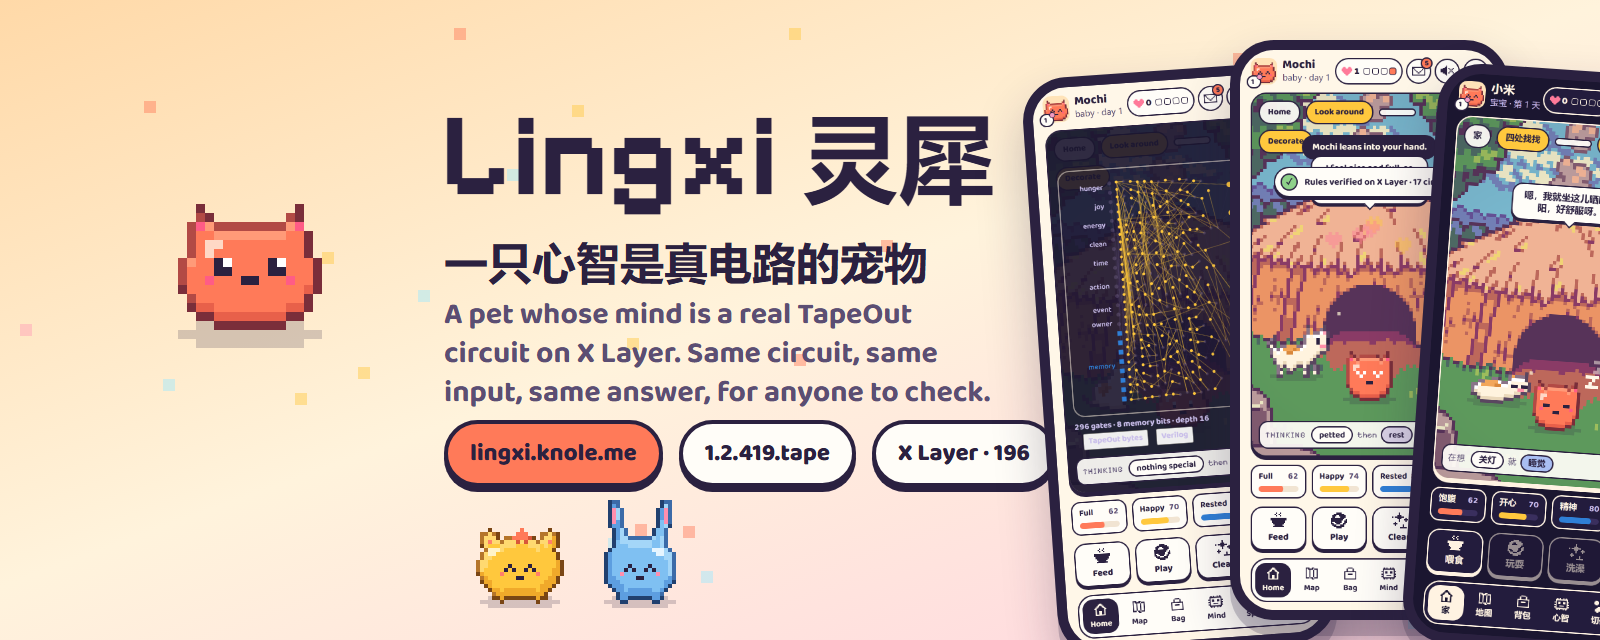
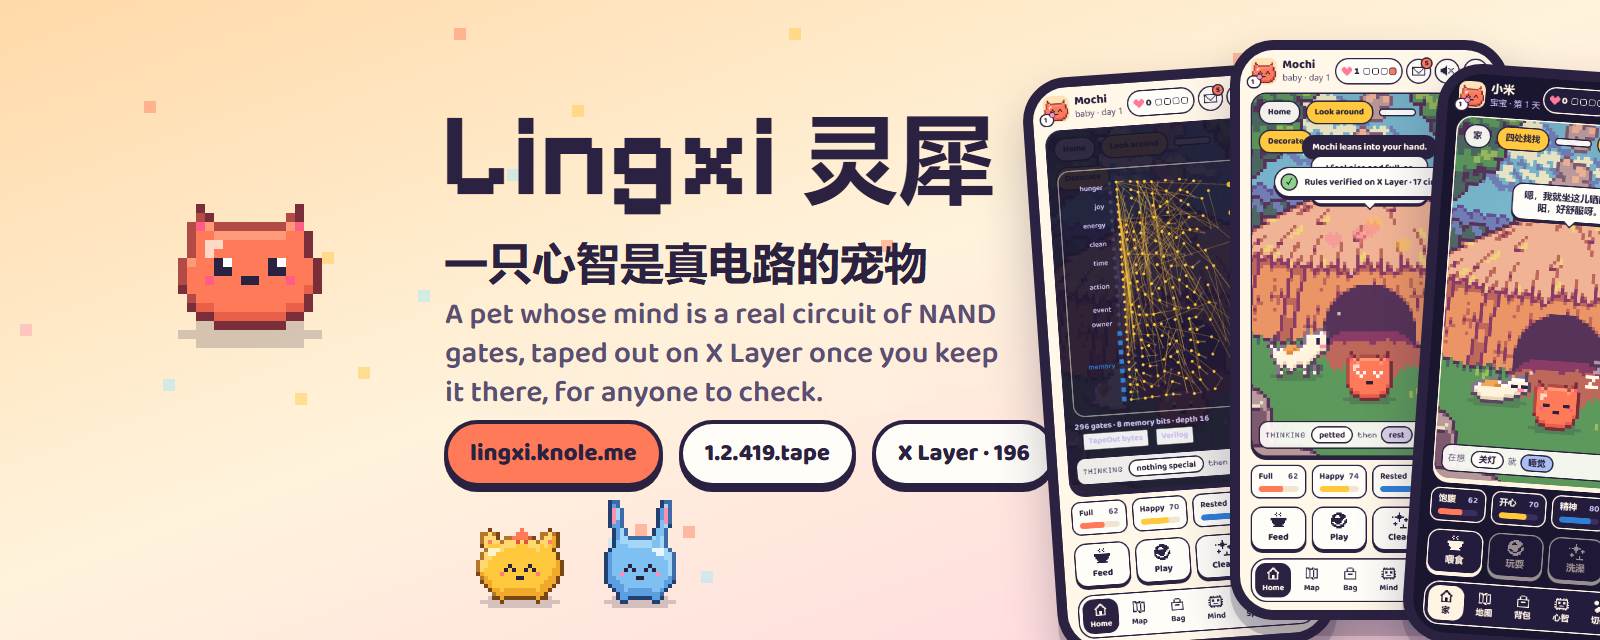
Say what holds in the opening sentence, wherever it is said
The landing's first line, five pages' descriptions, the web manifest, the
agent API and the README banner still said every pet's brain is a circuit on
X Layer. Each now says what is true: a pet's mind is a circuit of NAND gates,
taped out on X Layer once its owner keeps it there. The banner is rendered
from an HTML source with the banner's own art, so its words are text that a
test reads; that test checks every public place the opening is said.

Changed region(s): [[0.2812, 0.4688, 0.625, 0.625]]

diff --git a/apps/web/src/landing/opening.test.ts b/apps/web/src/landing/opening.test.ts
@@ -1,0 +1,34 @@
+/**
+ * A86: the opening sentence says what holds, wherever it is said. Every pet's mind is a circuit of NAND gates and
+ * latches; only once its owner keeps it on X Layer is that circuit taped out there (A43). The old sentence (every
+ * pet's brain is a circuit on X Layer) is read for in every public text that carries the opening: the pages' meta
+ * descriptions, the web manifest, the landing's first lines, the agent API's own description and the README banner's
+ * source.
+ */
+import { readFileSync } from "node:fs";
+import { join } from "node:path";
+import { describe, expect, it } from "vitest";
+import { COPY } from "./copy";
+
+const root = join(__dirname, "../../../..");
+const read = (path: string) => readFileSync(join(root, path), "utf8");
+const PUBLIC = ["apps/web/index.html", "apps/web/play.html", "apps/web/verify.html", "apps/web/handheld.html", "apps/web/agents.html", "apps/web/public/manifest.webmanifest", "services/api/src/agentApi.ts", "docs/readme/banner.html"];
+
+/** The old sentence, in the shapes it was written in: a pet's (every pet's) brain or mind as a circuit on X Layer. */
+const OLD = [/(brain|mind)s? (is|are) an? (real )?(TapeOut )?circuits? on X Layer/i, /minds are TapeOut circuits on X Layer/i, /its brain the circuit on X Layer/i, /its circuit brain on X Layer/i, /大脑为真实电路的宠物，电路就在 X Layer 上/];
+
+describe("the opening sentence (A86)", () => {
+  for (const path of PUBLIC)
+    it(`${path} does not say every pet's mind is a circuit on X Layer`, () => {
+      const text = read(path);
+      for (const old of OLD) expect(text, `${path}: ${old}`).not.toMatch(old);
+    });
+
+  it("the landing's first lines say what holds, in both languages", () => {
+    for (const old of OLD) expect(`${COPY.en.lede} ${COPY.zh.lede}`).not.toMatch(old);
+    expect(COPY.en.lede).toMatch(/NAND gates/);
+    expect(COPY.en.lede).toMatch(/keep it on X Layer/i);
+    expect(COPY.zh.lede).toMatch(/与非门/);
+    expect(COPY.zh.lede).toMatch(/留在 X Layer/);
+  });
+});

diff --git a/docs/readme/banner.html b/docs/readme/banner.html
@@ -1,0 +1,39 @@
+<!doctype html>
+<!--
+  The README banner (A86). Its art is `banner-base.png`: the banner first drawn on 2026-11-17, with its English lines
+  removed (filled smoothly from the area's own edges); the words are set here, in the game's own font, so they can be
+  read, checked and changed like any other text. Rendered to `banner.png` by `pnpm readme:banner`
+  (scripts/readme-banner.mts). The test `apps/web/src/landing/opening.test.ts` reads this file.
+-->
+<html lang="en">
+  <head>
+    <meta charset="utf-8" />
+    <style>
+      @font-face {
+        font-family: "Baloo 2 Variable";
+        src: url("../../apps/web/node_modules/@fontsource-variable/baloo-2/files/baloo-2-latin-wght-normal.woff2") format("woff2");
+        font-weight: 400 800;
+      }
+      html,
+      body {
+        margin: 0;
+        width: 1600px;
+        height: 640px;
+        overflow: hidden;
+        background: url("banner-base.png") no-repeat;
+      }
+      p {
+        position: absolute;
+        left: 445px;
+        top: 296px;
+        width: 560px;
+        margin: 0;
+        color: #5b4e73;
+        font: 600 30px/39px "Baloo 2 Variable", sans-serif;
+      }
+    </style>
+  </head>
+  <body>
+    <p>A pet whose mind is a real circuit of NAND gates, taped out on X Layer once you keep it there, for anyone to check.</p>
+  </body>
+</html>

diff --git a/apps/web/src/landing/copy.ts b/apps/web/src/landing/copy.ts
@@ -6,7 +6,7 @@ export const COPY = {
     cta: "Hatch an egg",
     quiet: "See how it thinks",
     h1: "Raise a little mind.",
-    lede: "Lingxi is a pet whose brain is a real circuit on X Layer. Care for it, teach it in your own words, and watch who it becomes.",
+    lede: "Lingxi is a pet whose brain is a real circuit of NAND gates. Keep it on X Layer and that circuit is taped out there. Care for it, teach it in your own words, and watch who it becomes.",
     hint: "Tap the pet. Tap the grass to call it over.",
     growLabel: "Grows with you",
     growH: "From egg to someone.",
@@ -66,7 +66,7 @@ export const COPY = {
     cta: "孵一颗蛋",
     quiet: "看看它怎么想",
     h1: "养一个小小的心智。",
-    lede: "灵犀是一只大脑为真实电路的宠物，电路就在 X Layer 上。照顾它，用你自己的话教它，看它慢慢长成独一无二的样子。",
+    lede: "灵犀是一只大脑为真实电路的宠物，电路由与非门组成。把它留在 X Layer 上，这块电路就在链上流片。照顾它，用你自己的话教它，看它慢慢长成独一无二的样子。",
     hint: "点一点宠物。点草地，它会跑过来。",
     growLabel: "陪你长大",
     growH: "从一颗蛋，到一个“谁”。",

diff --git a/services/api/src/agentApi.ts b/services/api/src/agentApi.ts
@@ -85,7 +85,7 @@ export function withAgentApi(app: Hono, deps: AgentApiDeps): Hono {
   app.get("/api/v1", (c) =>
     c.json({
       ok: true,
-      what: "Lingxi: pets whose minds are TapeOut circuits on X Layer. Everything a player can see, an agent can read; an agent can also raise its own pet.",
+      what: "Lingxi: pets whose minds are circuits of NAND gates and latches, taped out on X Layer once their owners keep them there. Everything a player can see, an agent can read; an agent can also raise its own pet.",
       docs: `${SITE}/agents.html`,
       endpoints: {
         "GET /api/v1/profiles": "interface manifests: what every input and output bit of a pet brain (PET-16x8/1) and a TapeFly brawl brain (DUEL-12x3/1) means",

diff --git a/apps/web/agents.html b/apps/web/agents.html
@@ -8,7 +8,7 @@
     <link rel="apple-touch-icon" href="icons/apple-touch-icon.png" />
     <link rel="manifest" href="manifest.webmanifest" />
     <title>Lingxi for AI agents</title>
-    <meta name="description" content="An open API for AI agents: read any Lingxi pet and its circuit brain on X Layer, spar any brain, raise a pet and enter the weekly season." />
+    <meta name="description" content="An open API for AI agents: read any Lingxi pet and its circuit brain (taped out on X Layer for pets kept there), spar any brain, raise a pet and enter the weekly season." />
   </head>
   <body>
     <div id="root"></div>

diff --git a/apps/web/handheld.html b/apps/web/handheld.html
@@ -8,7 +8,7 @@
     <link rel="apple-touch-icon" href="icons/apple-touch-icon.png" />
     <link rel="manifest" href="manifest.webmanifest" />
     <title>Lingxi handheld</title>
-    <meta name="description" content="Take your Lingxi pet along: the handheld's own firmware, its brain the circuit on X Layer, in your browser." />
+    <meta name="description" content="Take your Lingxi pet along: the handheld's own firmware in your browser, running your pet's circuit, read from X Layer once its mind is kept there." />
   </head>
   <body>
     <div id="root"></div>

diff --git a/apps/web/index.html b/apps/web/index.html
@@ -8,7 +8,7 @@
     <link rel="apple-touch-icon" href="icons/apple-touch-icon.png" />
     <link rel="manifest" href="manifest.webmanifest" />
     <title>Lingxi · Raise a little mind</title>
-    <meta name="description" content="Raise a little mind. A pet whose brain is a real circuit on X Layer." />
+    <meta name="description" content="Raise a little mind: a pet whose brain is a real circuit of NAND gates, taped out on X Layer once you keep it there." />
   </head>
   <body>
     <div id="root"></div>

diff --git a/apps/web/verify.html b/apps/web/verify.html
@@ -8,7 +8,7 @@
     <link rel="apple-touch-icon" href="icons/apple-touch-icon.png" />
     <link rel="manifest" href="manifest.webmanifest" />
     <title>Verify a Lingxi pet</title>
-    <meta name="description" content="Raise a little mind. A pet whose brain is a real circuit on X Layer." />
+    <meta name="description" content="Raise a little mind: a pet whose brain is a real circuit of NAND gates, taped out on X Layer once you keep it there." />
   </head>
   <body>
     <div id="root"></div>

diff --git a/apps/web/play.html b/apps/web/play.html
@@ -17,7 +17,7 @@
         } catch (e) {}
       })();
     </script>
-    <meta name="description" content="Raise a little mind. A pet whose brain is a real circuit on X Layer." />
+    <meta name="description" content="Raise a little mind: a pet whose brain is a real circuit of NAND gates, taped out on X Layer once you keep it there." />
   </head>
   <body>
     <div id="root"></div>

diff --git a/docs/claims.md b/docs/claims.md
@@ -30,6 +30,7 @@ Kinds of check:
 | circuits-hash | README, proof page | The five core circuits on chain have the keccak256 hashes listed. | auto:circuit-hashes |
 | circuits-compiler | README | The circuits on chain are byte for byte what this repo's compiler produces. | judge: equals this repo's compiler output |
 | minds-taped-out | README (EN, ZH), proof page, agents page (EN, ZH) | Every pet's mind is a circuit of NAND gates and latches; once its owner keeps it on X Layer, that circuit is taped out there (the line's starter circuit at hatching, its own when its new mind is put on chain). | test:apps/web/src/game/chain.test.ts |
+| opening-sentence | landing (EN, ZH), the meta descriptions of index, play, verify, handheld and agents, the web manifest, the agent API, the README banner | Lingxi is a pet whose mind is a real circuit of NAND gates, taped out on X Layer once its owner keeps it there; no public text says every pet's mind is a circuit on X Layer. | test:apps/web/src/landing/opening.test.ts |
 | teach-taped-out | README | A taught rule is compiled into the circuit; for a pet kept on X Layer, the new circuit is taped out when its owner puts its new mind on chain. | test:e2e/specs/relay.spec.ts |
 | handheld-circuit | README, handheld panel | The handheld runs the circuit read from X Layer when the pet's mind is on chain, the game's own circuit otherwise, checked on all 65,536 inputs. | test:e2e/specs/handheld.spec.ts |
 | tapekit-letters | README | Letters between homes stay closed until TapeSend's hub accepts circuits from Lingxi's processor; TapeKit's gateway serves the on-chain copy. | manual: every branch of `apps/web/src/play/Home.tsx`'s letters note keeps them closed ("coming next", hub code not approved, or circuits not accepted), and `packages/chain/src/home.ts` checks the hub against its allow-list; the gateway is `links.ts`'s `*.tapekit.org` (checked 2026-11-20). |
